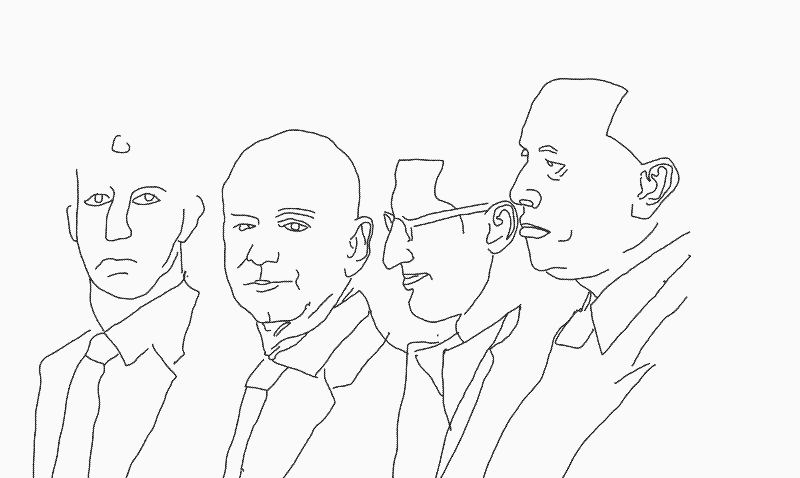
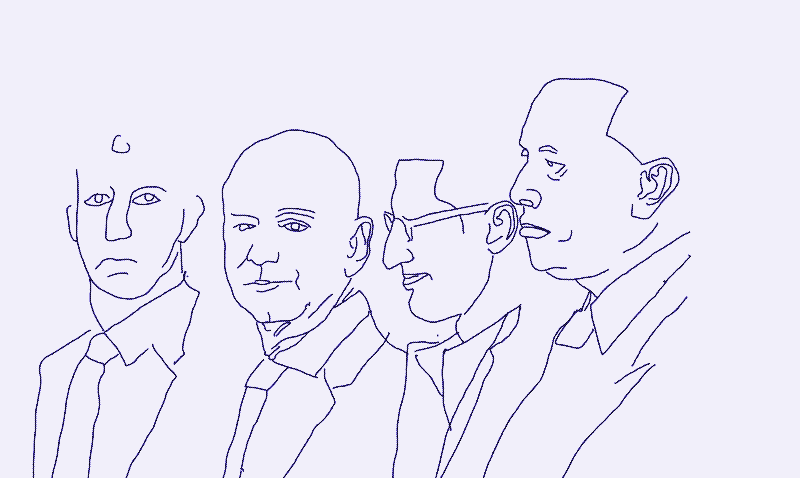
update color palette

diff --git a/layouts/partials/footer.html b/layouts/partials/footer.html
@@ -14,9 +14,9 @@
 <li>
 <h3>Contact</h3>
                     beaudry [at] beaudrychase [dot] xyz
-<div class="social">
-<!--  RSS FEED -->
-</div>
+<!-- <div class="social">
+ RSS FEED
+</div> -->
 <!-- /.social -->
 </li>
 </li></ul>

diff --git a/utils/dither_images.py b/utils/dither_images.py
@@ -1,5 +1,5 @@
 # image dithering script
-# © 2022 Roel Roscam Abbing, released as AGPLv3
+# Copyright 2022 Roel Roscam Abbing, released as AGPLv3
 # see https://www.gnu.org/licenses/agpl-3.0.html
 # Support your local low-tech magazine: https://solar.lowtechmagazine.com/donate.html 
 
@@ -60,7 +60,8 @@ def colorize(source_image, category):
             'low-tech': hitherdither.palette.Palette([(30,32,40), (11,21,71),(57,77,174),(158,168,218),(187,196,230),(243,244,250)]),
             'obsolete': hitherdither.palette.Palette([(9,74,58), (58,136,118),(101,163,148),(144,189,179),(169,204,195),(242,247,246)]),
             'high-tech': hitherdither.palette.Palette([(86,9,6), (197,49,45),(228,130,124),(233,155,151),(242,193,190),(252,241,240)]),
-            'grayscale': hitherdither.palette.Palette([(25,25,25), (75,75,75),(125,125,125),(175,175,175),(225,225,225),(250,250,250)])
+            'blog': hitherdither.palette.Palette([(12, 9, 31), (43, 33, 110), (98, 82, 203), (155, 145, 222), (212, 208, 241), (241, 239, 250)]),
+            'grayscale': hitherdither.palette.Palette([(25, 25, 25), (75, 75, 75), (125, 125, 125), (175, 175, 175), (225, 225, 225), (250, 250, 250)]),
         }
 
 
@@ -118,11 +119,12 @@ def delete_dithers(content_dir):
 
 def parse_front_matter(md):
     with open(md) as f:
+        logging.debug(f.name)
         contents = f.readlines()
         cat = None
         for l in contents:
-            if l.startswith("categories: "):
-                cat = l.split("categories: ")[1]
+            if l.startswith("Categories: "):
+                cat = l.split("Categories: ")[1]
                 cat = cat.strip("[")
                 cat = cat.strip()
                 cat = cat.strip("]")
